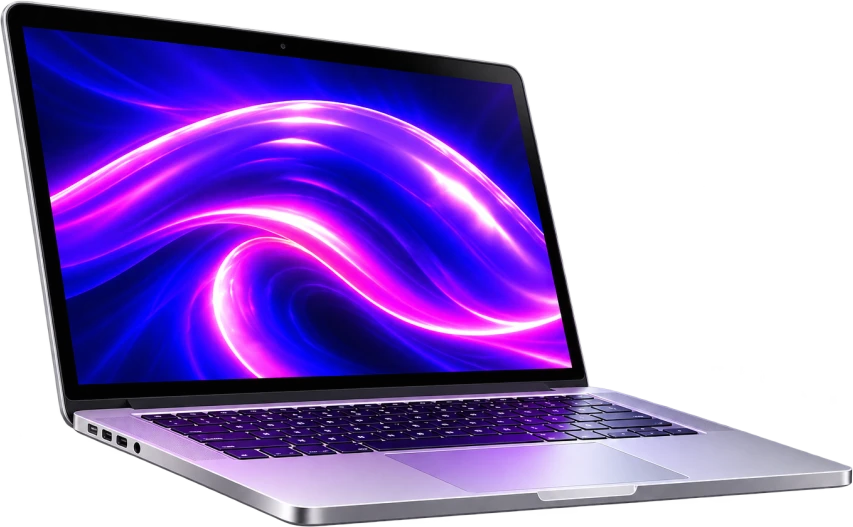
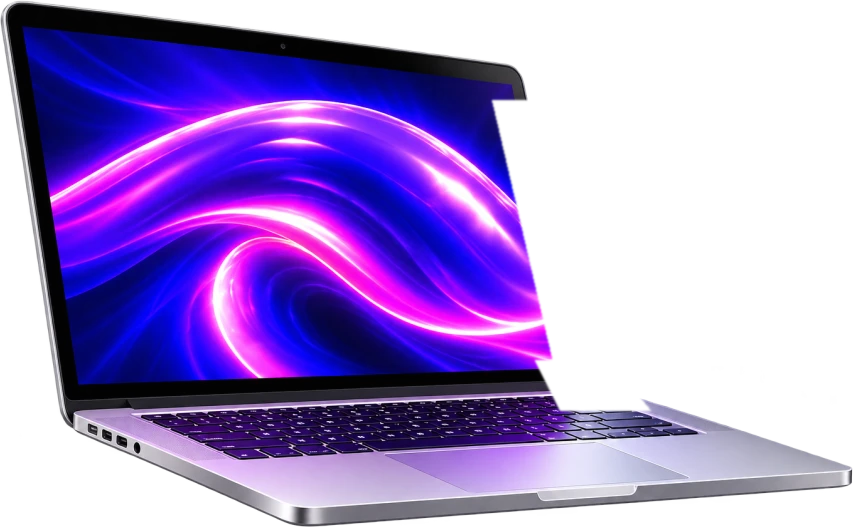
Hero: remove leftover bezel strip + screen corner under swirls; swirls start right after laptop
Claude-Session: https://claude.ai/code/session_01NTP9niN9fkNMbJSChYRcYE

Changed region(s): [[0.5791, 0.1822, 0.762, 0.7894]]

diff --git a/assets/js/main.js b/assets/js/main.js
@@ -208,10 +208,10 @@
     const K = mob ? .71 : 1, OX = mob ? 121 : 0, OY = mob ? 45 : 0;
     const base = "assets/img/hero/";
     // [name, x, y, w, h] in the 1720x1400 art space
-    const R = { yummi: [257, 381, 1206, 284], laptop: [483, 635, 853, 527], frame: [483, 635, 853, 527], purple: [62, 603, 1647, 512], red: [363, 765, 1115, 238], green: [985, 706, 172, 130] };
-    const order = ["yummi", "green", "laptop", "purple", "red", "frame"];
-    const file = { yummi: "yummi", laptop: "laptop", frame: "laptop-frame", purple: "purple", red: "red", green: "green" };
-    const h = { started: false, st: { yummi: 0, laptop: 0, frame: 0, purple: [0, 0], red: [0, 0], green: [0, 0] } };
+    const R = { yummi: [257, 381, 1206, 284], laptop: [483, 635, 853, 527], frame: [483, 635, 853, 527], strip: [483, 635, 853, 527], purple: [62, 603, 1647, 512], red: [363, 765, 1115, 238], green: [985, 706, 172, 130] };
+    const order = ["yummi", "green", "laptop", "strip", "purple", "red", "frame"];
+    const file = { yummi: "yummi", laptop: "laptop", frame: "laptop-frame", strip: "laptop-strip", purple: "purple", red: "red", green: "green" };
+    const h = { started: false, st: { yummi: 0, laptop: 0, frame: 0, strip: 0, purple: [0, 0], red: [0, 0], green: [0, 0] } };
     const gl = cv.getContext("webgl", { alpha: true, premultipliedAlpha: true, antialias: false });
     const files = order.map(n => loadImg(base + file[n] + ".webp"));
     const maps = ["purple", "red", "green"].map(n => loadImg(base + n + "-map.png"));
@@ -299,9 +299,10 @@ void main(){
     const ez = t => 1 - Math.pow(1 - t, 3), eio = t => t < .5 ? 2 * t * t : 1 - Math.pow(-2 * t + 2, 2) / 2, sm = t => t * t * (3 - 2 * t);
     const cl = t => Math.min(1, Math.max(0, t));
     // times in ms from play(): [start, duration]; purple L->R, red R->L, green L->R
-    const IN = [0, 1200], SW = { purple: [1500, 3200], red: [2300, 2900], green: [3400, 1800] };
+    const IN = [0, 1200], SW = { purple: [1000, 3200], red: [1700, 2900], green: [2800, 1800] };
     const setAt = t => {
       const S = h.st; S.yummi = S.laptop = S.frame = ez(cl((t - IN[0]) / IN[1]));
+      S.strip = S.laptop * (1 - sm(cl(((t - SW.purple[0]) / SW.purple[1] - .5) / .25)));
       for (const n in SW) { const k = cl((t - SW[n][0]) / SW[n][1]);
         S[n] = [eio(k) * 1.1 + (k > 0 ? .0001 : 0), 1]; if (k >= 1) S[n] = [1.3, 1]; }
       return t >= SW.green[0] + SW.green[1] && t >= SW.purple[0] + SW.purple[1];
